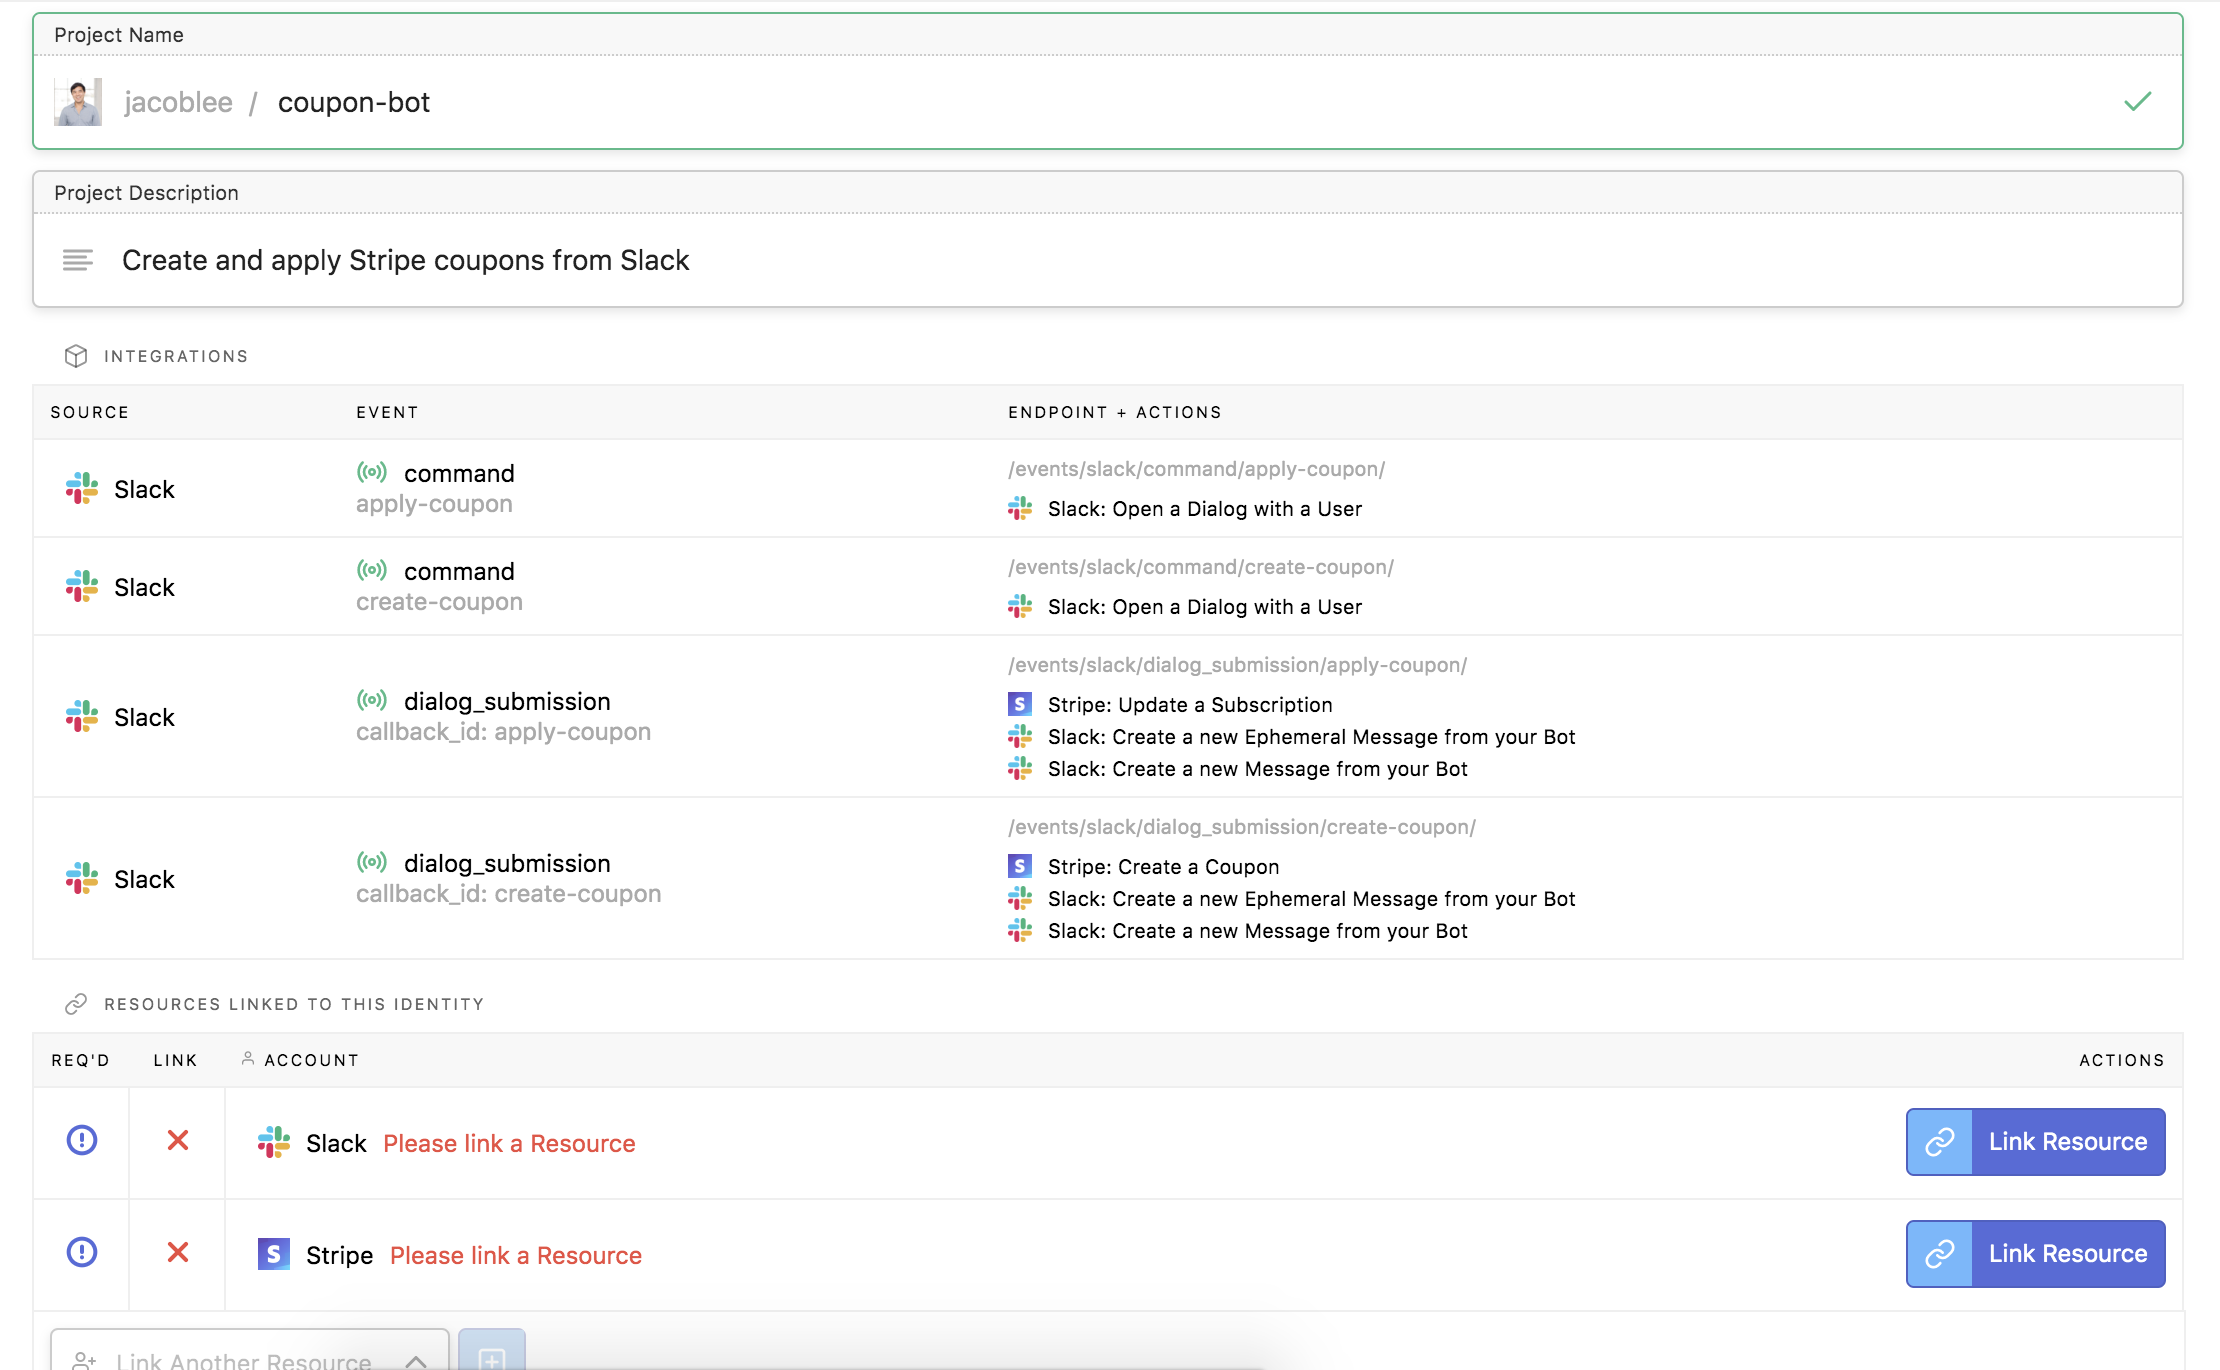
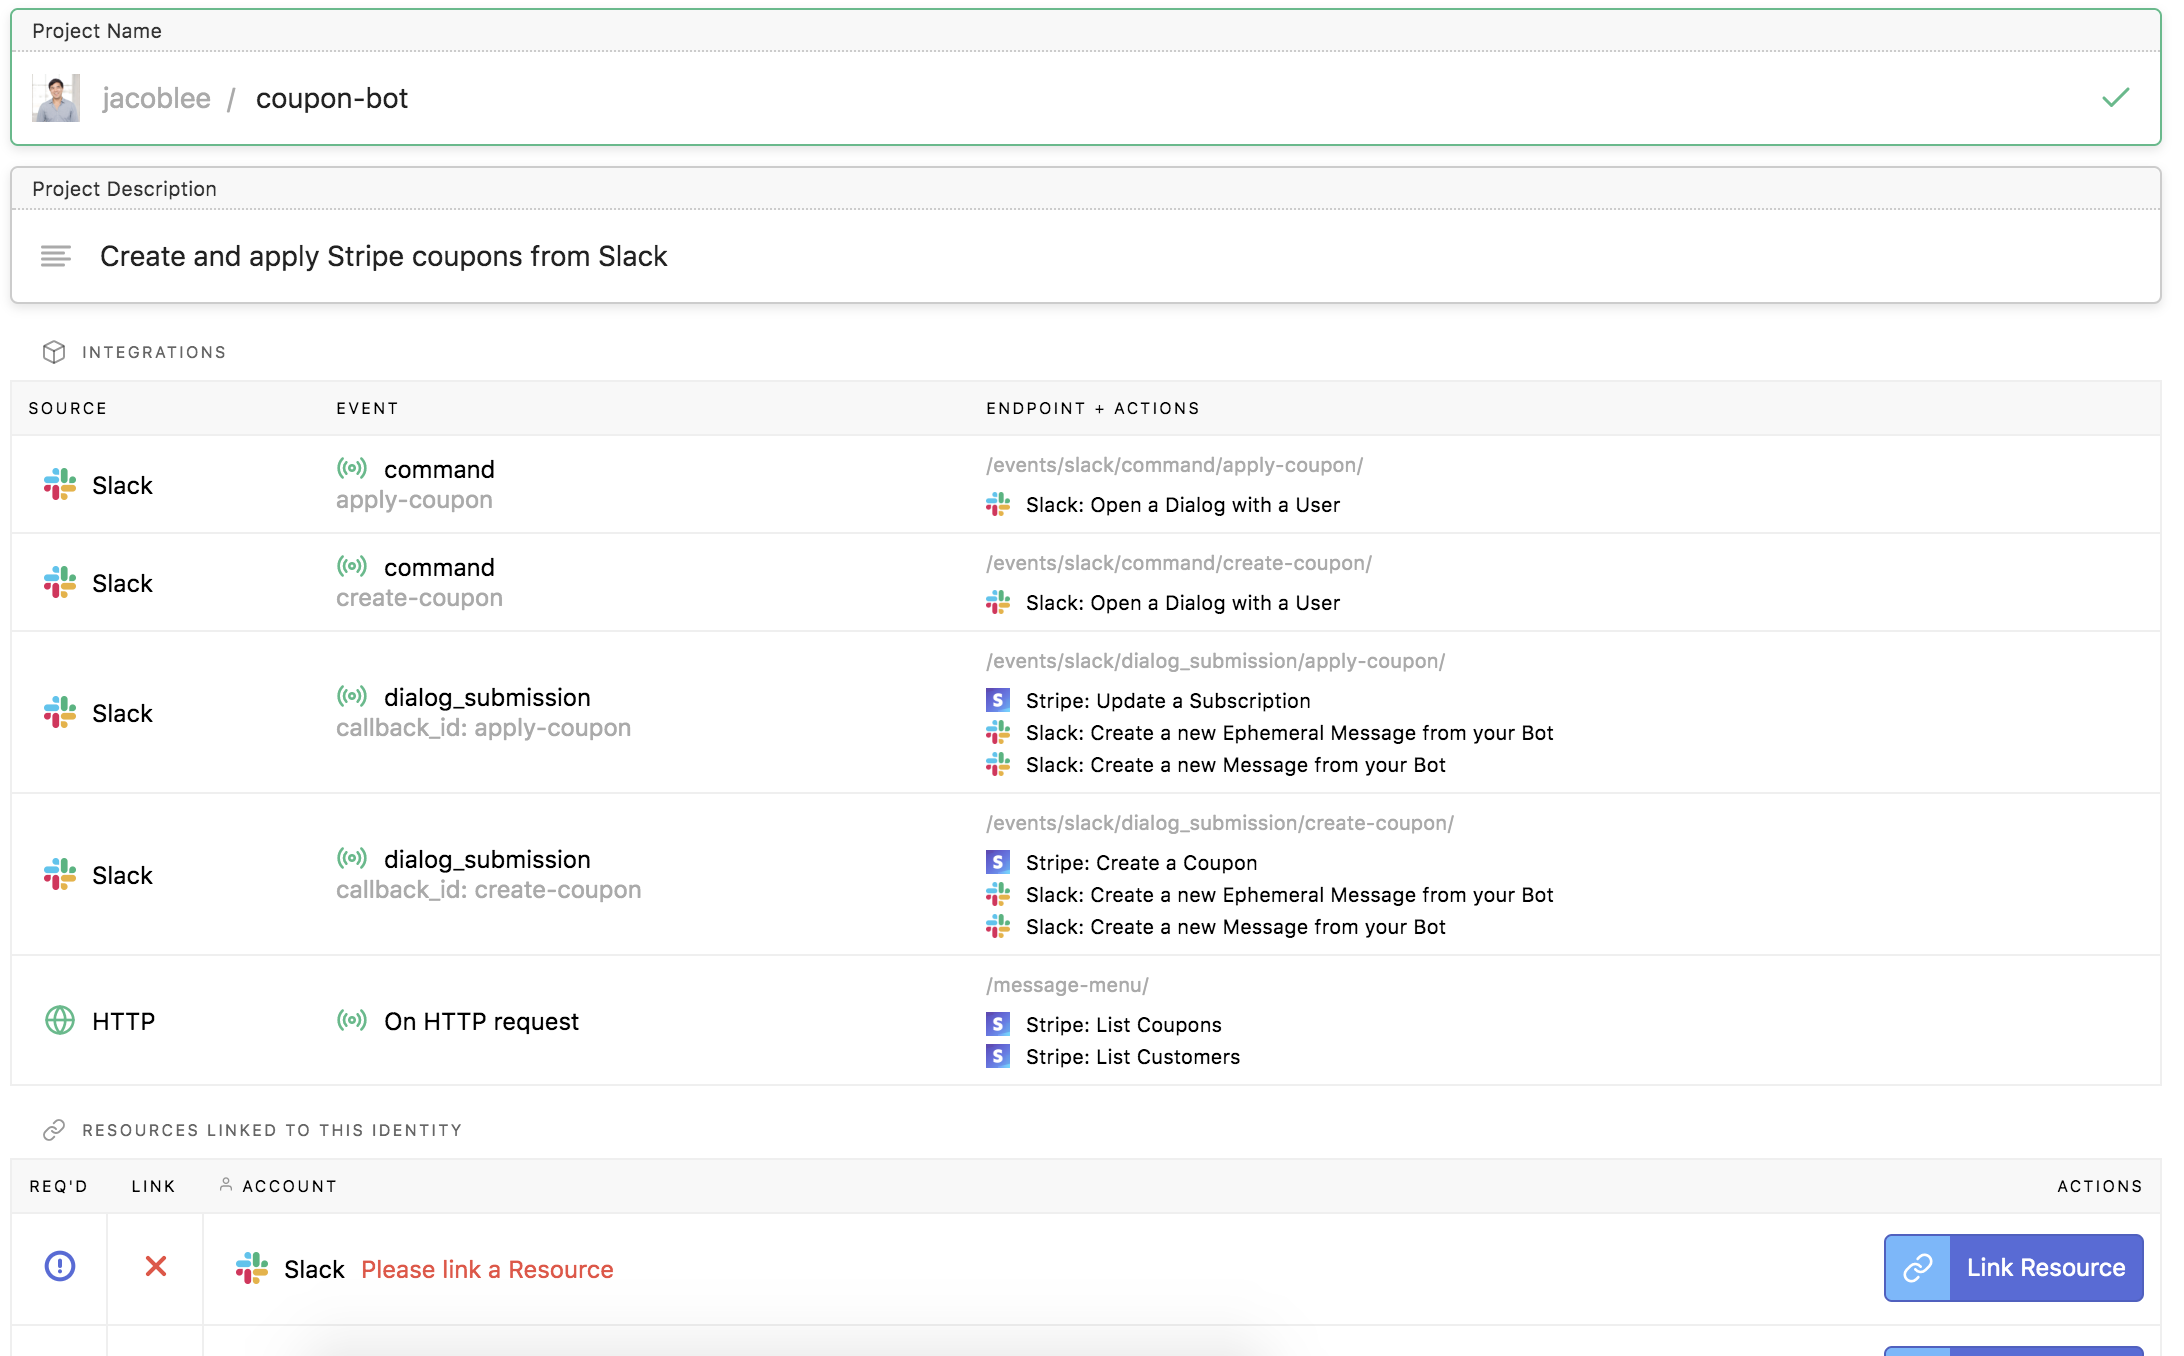
Update screenshots and rename message_menu to message-menu

diff --git a/README.md b/README.md
@@ -20,9 +20,9 @@ As the table shows, your app has five handlers:
 1. `events/slack/command/create-coupon.js`, the slash command that opens a dialog that creates new coupons.
 1. `events/slack/dialog_submission/apply-coupon.js`, the handler that gets called when you submit the coupon application dialog. It calls the Stripe API to update the appropriate subscription.
 1. `events/slack/dialog_submission/create-coupon.js`, the handler that gets called when you submit the coupon creation dialog. It calls the Stripe API to create a coupon with the parameters from the dialog.
-1. `events/
+1. `message-menu.js`, the endpoint that retrieves coupon and subscription data from Stripe and populates the menus in the dialog. It acts as a data source for the menus within the dialog.
 
-Before you can deploy the app, you will need to link a Slack app and a Stripe app in **test mode**.
+The final step before deploying the app is linking a Slack app and a Stripe app in **test mode**.
 
 ### Stripe
 
@@ -32,13 +32,12 @@ Click the **Link Resource** button, then select a Stripe app. You're linking you
 
 Click **Link Resource** and follow the instructions to build and link a Slack app.
 
-**Note:** Once deployed, you will still need to register the `/create-coupon` and `/apply-coupon` commands separately in your Slack app dashboard.
-For the slash command's request URL, enter `https://<username>.events.stdlib.com/`.
+After you choose your app, you will still need to register the `/create-coupon` and `/apply-coupon` commands separately in your Slack app dashboard.
 
 ### Creating the Commands on Slack
 
 You can create the `/create-coupon` and `/apply-coupon` commands by visiting [api.slack.com/apps](https://api.slack.com/apps),
-selecting your app, then clicking **Slash commands** on the left sidebar.
+selecting your app, then clicking **Slash Commands** on the left sidebar.
 
 ![](./readme/images/slack-create-command.png)
 
@@ -52,9 +51,8 @@ Click **Save** in the bottom right to proceed. Repeat this process for `/apply-c
 
 ### Set your Options Load URL
 
-Next click **Interactive Components** on the left sidebar.
-Scroll down to "Message Menus" and set the "Options Load URL" to be:
-`https://<username>.api.stdlib.com/coupon-bot@dev/message_menu/`
+Finally, click **Interactive Components** on the left sidebar. Enable interactivity if it is not enabled and make sure that the **Interactivity** URL is set as `https://<username>.events.stdlib.com`, then scroll down to "Message Menus" and set the "Options Load URL" to be:
+`https://<username>.api.stdlib.com/coupon-bot@dev/message-menu/`
 
 Where `<username>` is your Standard Library username.
 
